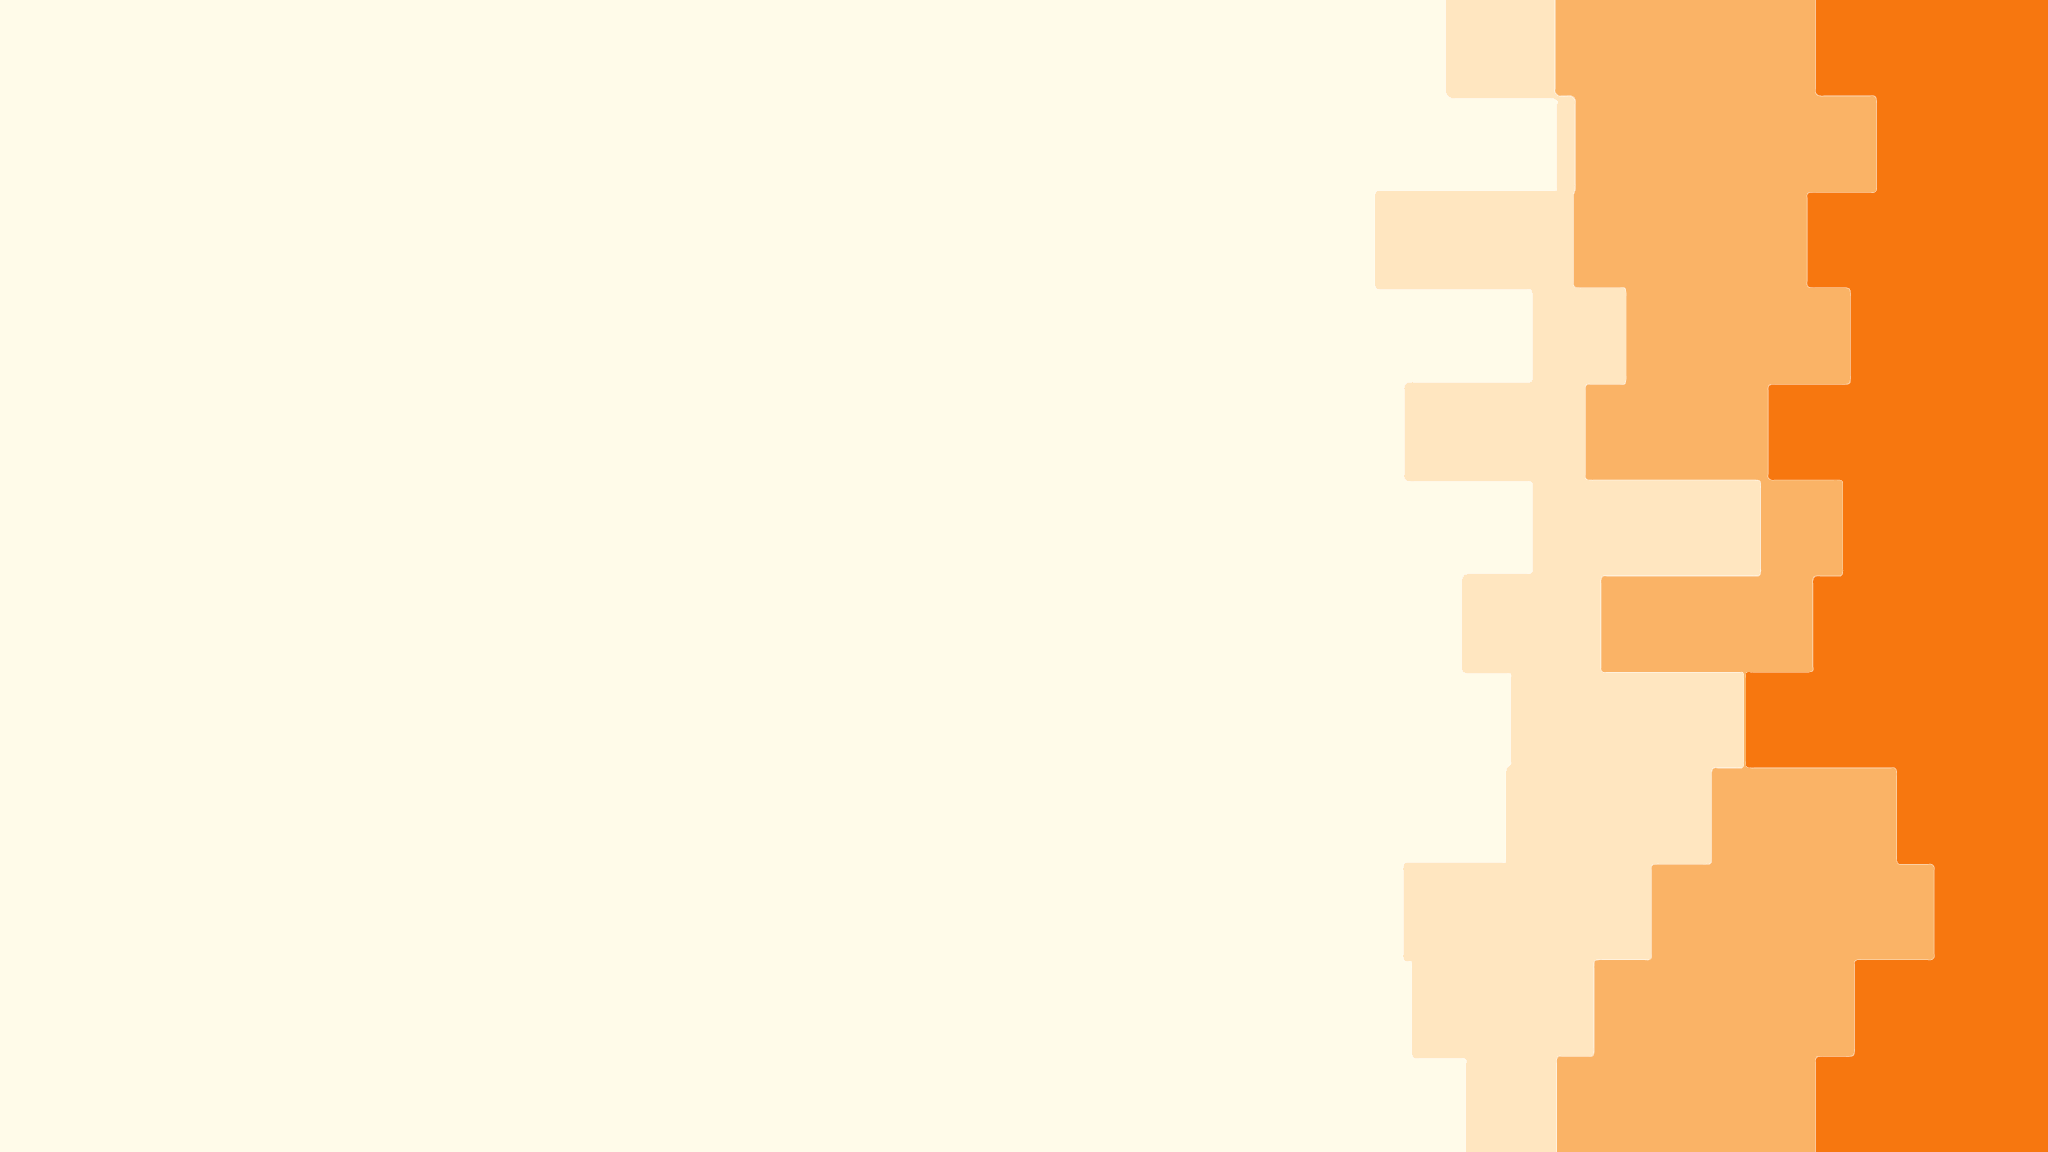
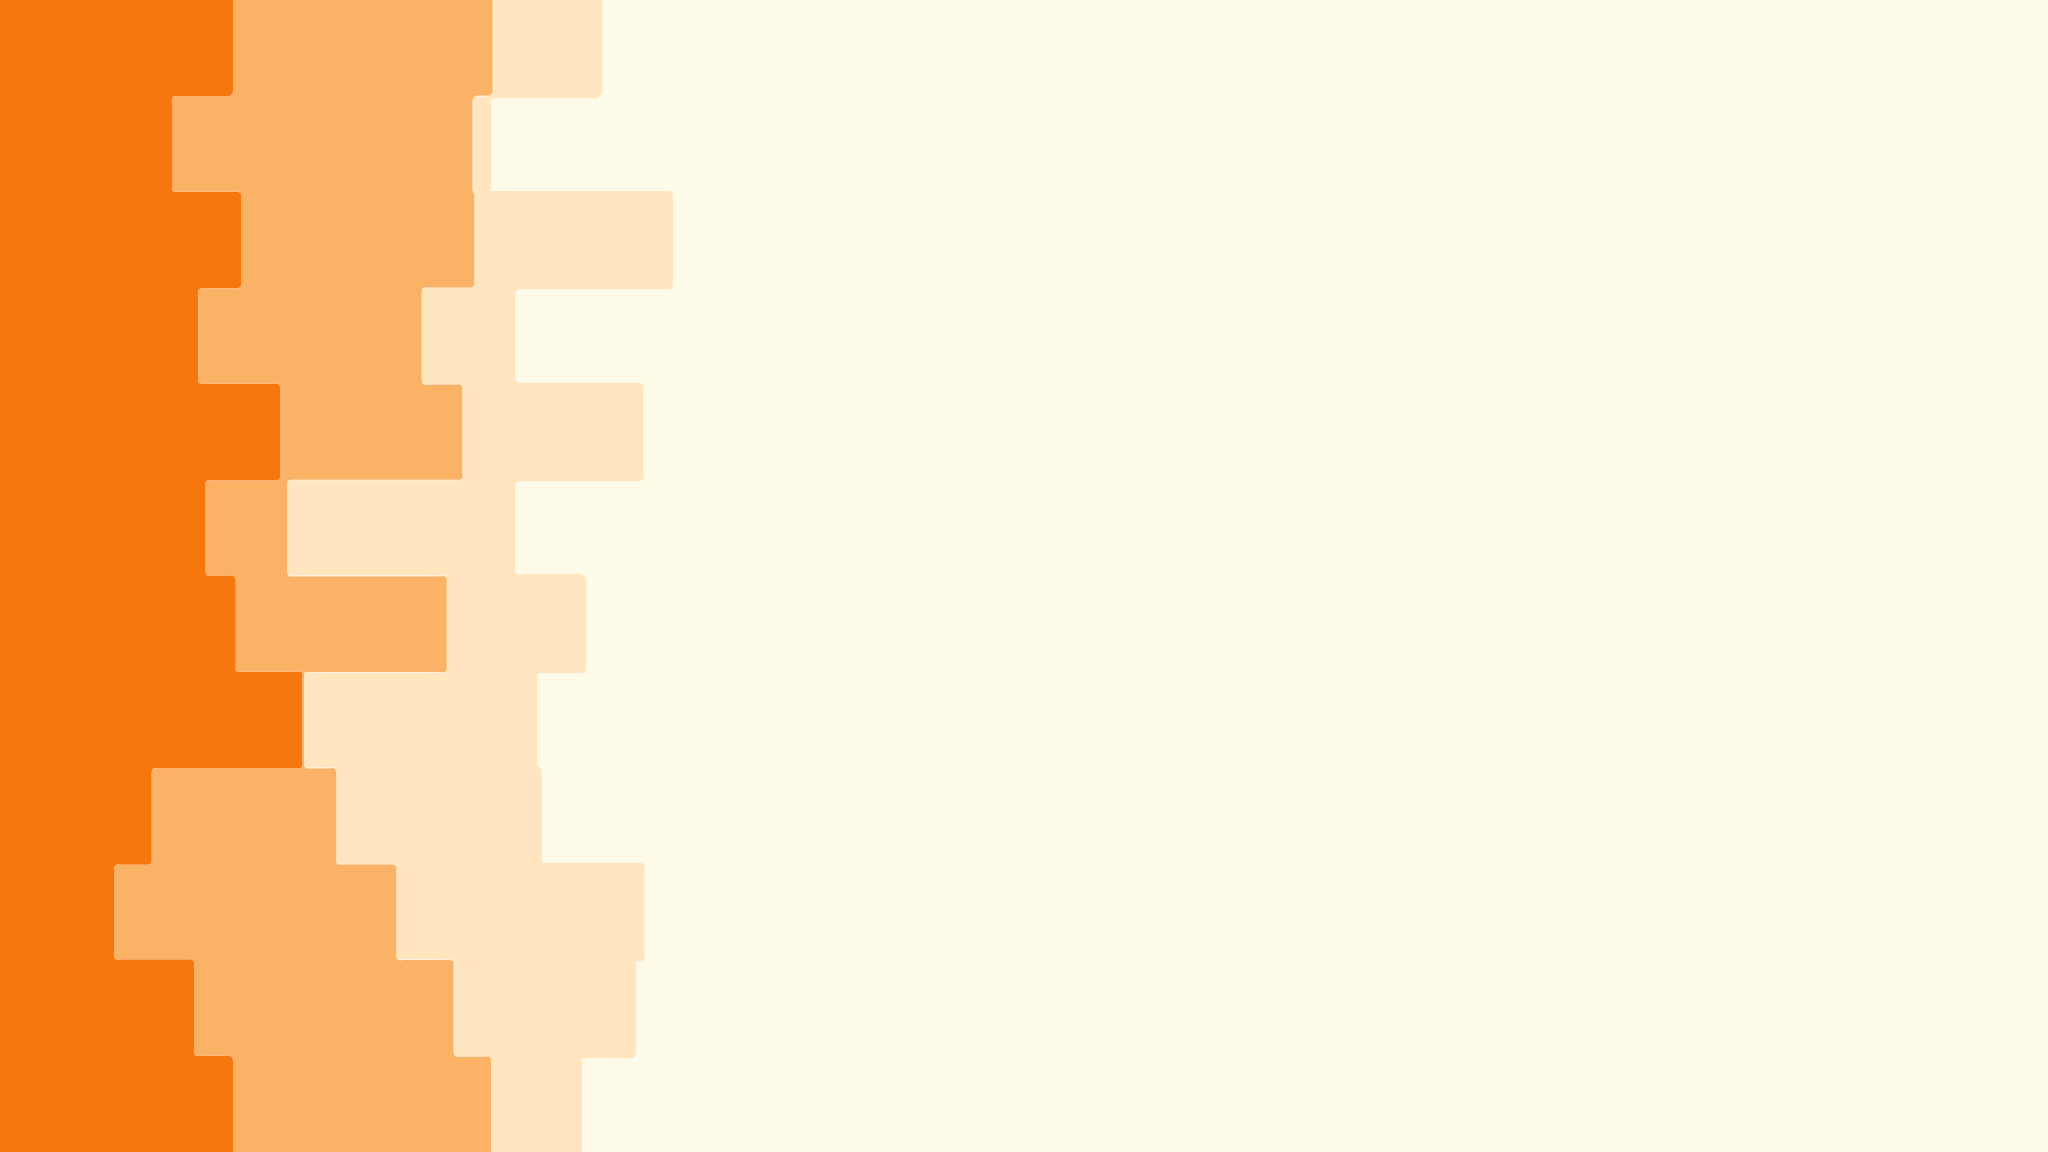
imagesUpdate

diff --git a/index.html b/index.html
@@ -8,7 +8,8 @@
     <link rel="stylesheet" href="style.css">
 </head>
 
-<body>
+<body class="bodyBG">
+    <main>
 <header>
     <nav class="navBar">
         <input class="search-bar" type="search">
@@ -74,7 +75,7 @@
     </figure>
 
     <figure class="cards">
-        <img class="imgCards" src="/images/TravelAmity.jpg" width="450px" alt="travel-to-amity">
+        <img class="imgCards" src="/images/TravelAmity.png" width="450px" alt="travel-to-amity">
         <figcaption class="description-cards">
             <h4>Amity Island</h4>
             <p>Amity Island ! Cette destination idyllique vous promet un séjour inoubliable... si vous avez les nerfs solides !
@@ -86,7 +87,7 @@
     </figure>
 
     <figure class="cards">
-        <img class="imgCards" src="/images/TravelOverlook.jpg" width="450px" alt="travel-to-Overlook">
+        <img class="imgCards" src="/images/TravelOverlook.png" width="450px" alt="travel-to-Overlook">
         <figcaption class="description-cards">
             <h4>Sejour a l’hotel Overlook</h4>
             <p>Venez profiter de notre sejour en penssion complette a l’hotel Overlook, solitude et isolement garantie, une pur semaine de relaxation en compagnie de l’écrivain Jack Torrance qui se trouve également sur place avec ca famille.</p>
@@ -95,7 +96,7 @@
     </figure>
 
     <figure class="cards">
-        <img class="imgCards" src="/images/Lotr.png" width="450px" alt="travel-to-midle-earth">
+        <img class="imgCards" src="/images/TravelLotr.png" width="450px" alt="travel-to-midle-earth">
         <figcaption class="description-cards">
             <h4>Voyage en terres du milieu</h4>
             <p>Plongez dans l'épopée de "Le Seigneur des Anneaux" ! Suivez Frodon et la Communauté de l'Anneau dans leur quête pour détruire l'Anneau Unique. De la Comté au Mordor, chaque étape offre des rencontres épiques et des défis héroïques. 
@@ -105,7 +106,7 @@
     </figure>
 
     <figure class="cards">
-        <img class="imgCards" src="/images/jurassic-park.jpg" width="450px" alt="travel-to-isla-nublar">
+        <img class="imgCards" src="/images/TravelJurassic park.png" width="450px" alt="travel-to-isla-nublar">
         <figcaption class="description-cards">
             <h4>Isla Nublar</h4>
             <p>Plongez dans l'excitation jurassique de "Jurassic Park" ! Explorez un monde perdu rempli de dinosaures majestueux, où chaque pas révèle une nouvelle découverte préhistorique. Des paysages à couper le souffle et des rencontres étonnantes vous attendent à chaque tournant. 
@@ -115,7 +116,7 @@
     </figure>
 
     <figure class="cards">
-        <img class="imgCards" src="/images/question_mark.png" width="450px" alt="travel-to-your-choice">
+        <img class="imgCards" src="/images/travelRandom.png" width="450px" alt="travel-to-your-choice">
         <figcaption class="description-cards">
             <h4>Kingstons falls</h4>
             <p>Vous en avez marre des destinations touristiques infestées de pigeons et de selfies ? 
@@ -125,7 +126,7 @@
     </figure>
 </section>
 
-
+</main>
 
 
 

diff --git a/style.css b/style.css
@@ -14,6 +14,11 @@
   font-family: poppins-regular;
 }
 
+main {
+  background-image: url(/images/BackgroundRightSideHRopa50.png);
+  background-size: contain;
+}
+
 /*START HEADER*/
 /*NavBar*/
 
@@ -102,11 +107,13 @@ nav {
 }
 
 .cards-prim {
+  opacity: 0%;
   display: flex;
   box-shadow: 5px 5px 5px rgba(99, 99, 99, 0.267);
   width: 1300px;
   height: 400px;
   border-radius: 50px;
+  background-color: beige;
 }
 
 .imgCards-prim {
@@ -154,10 +161,21 @@ nav {
   border-radius: 20px;
   box-shadow: 5px 5px 5px rgba(99, 99, 99, 0.267);
   margin-bottom: 50px;
+  background-color: beige;
 }
 
 .imgCards {
   border-radius: 20px 20px 0px 0px;
+}
+
+.description-cards{
+  display: flex;
+  flex-direction: column;
+  justify-content: center;
+  align-items: center;
+  padding-top: 10px;
+  gap: 15px;
+  text-align: center;
 }
 
 /* 
